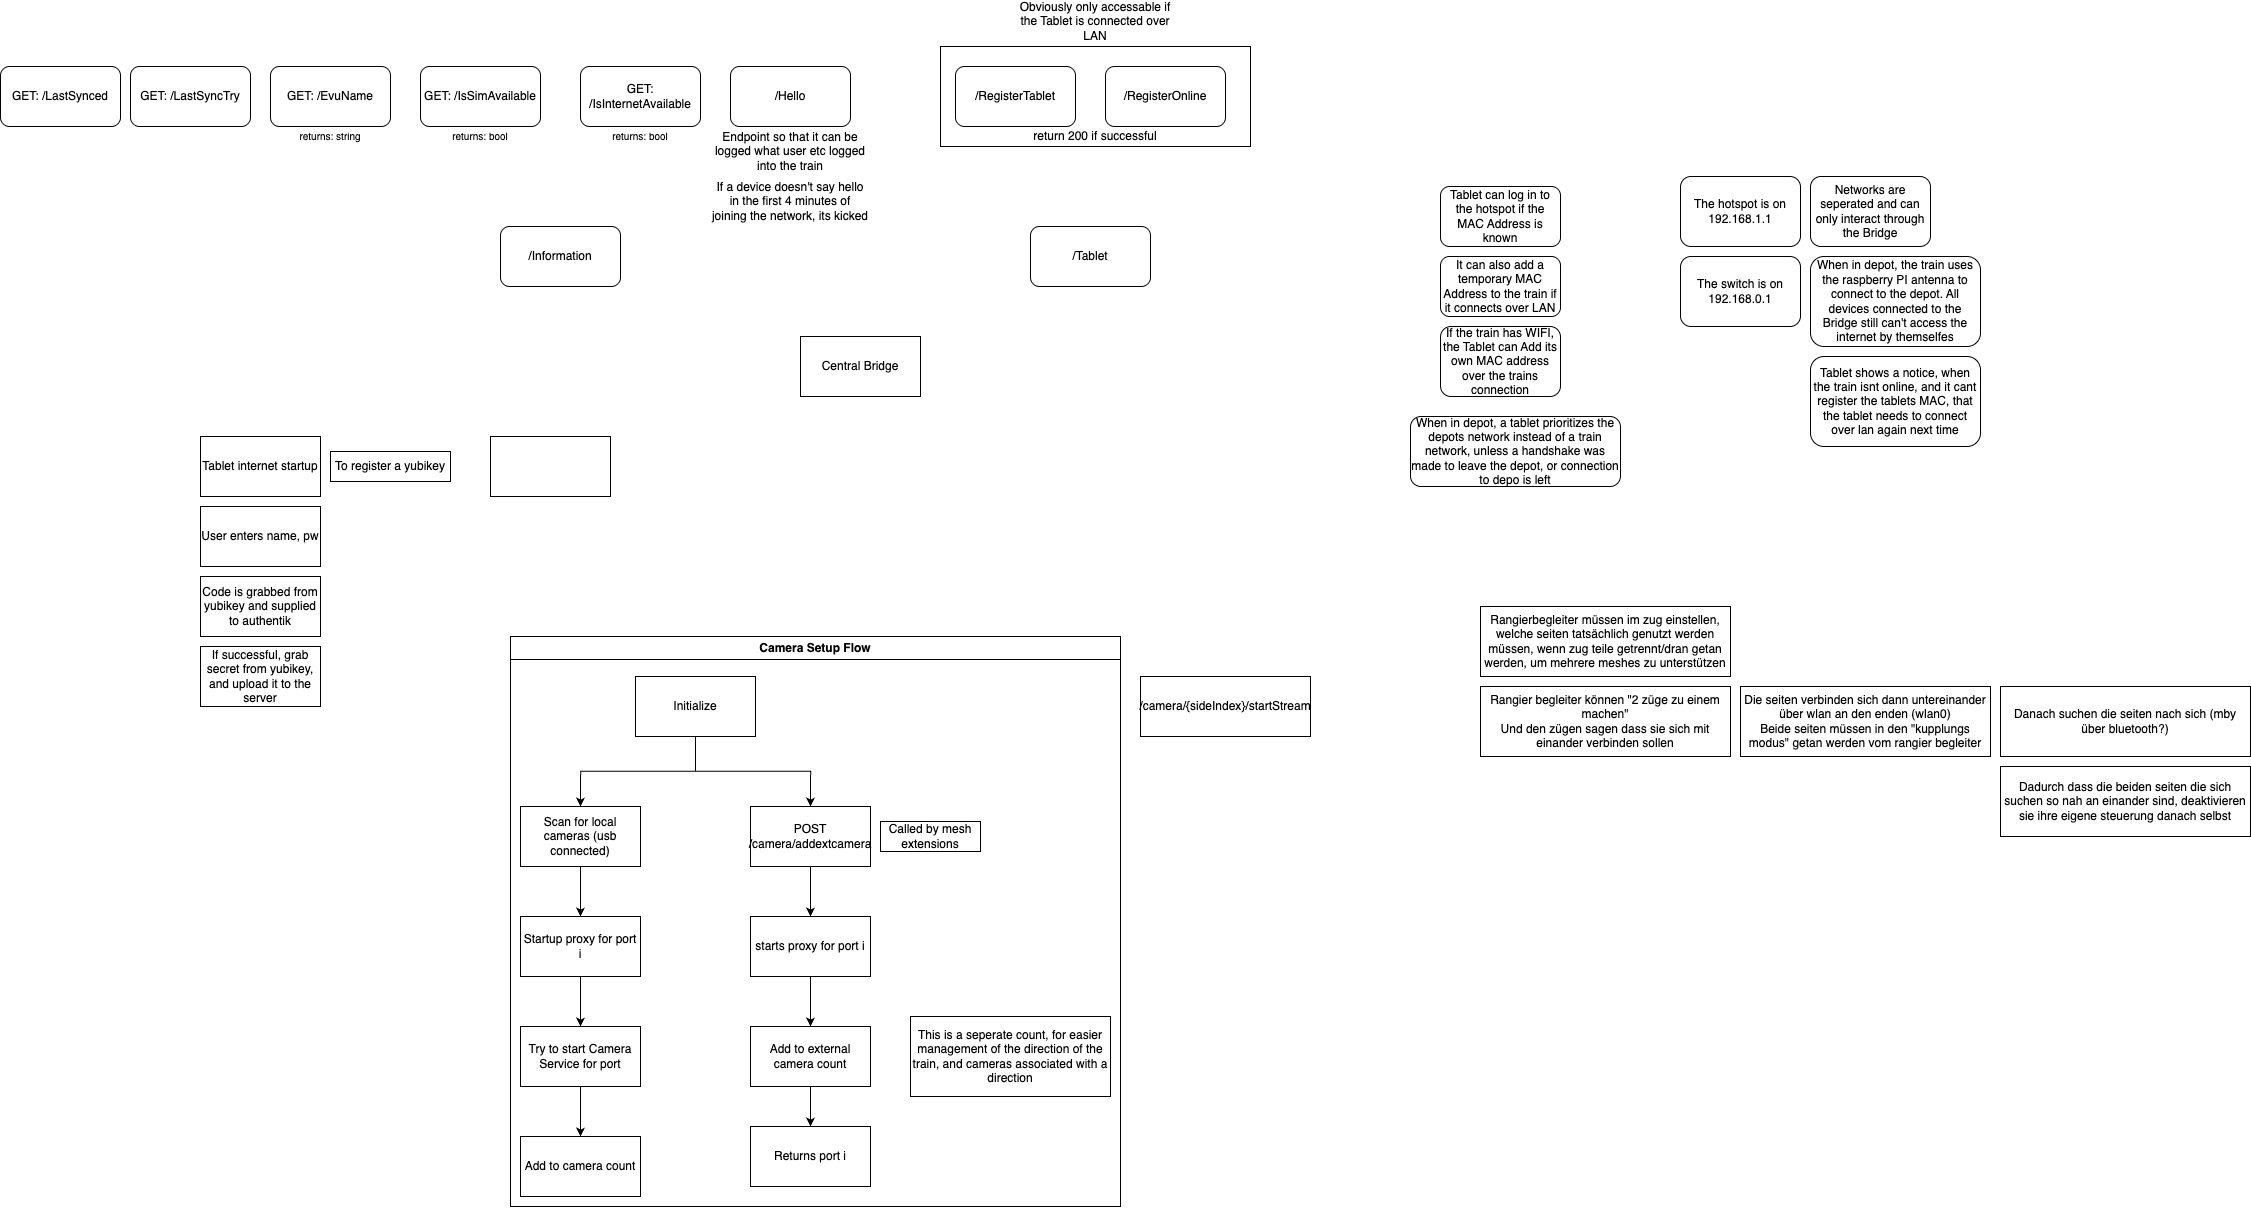
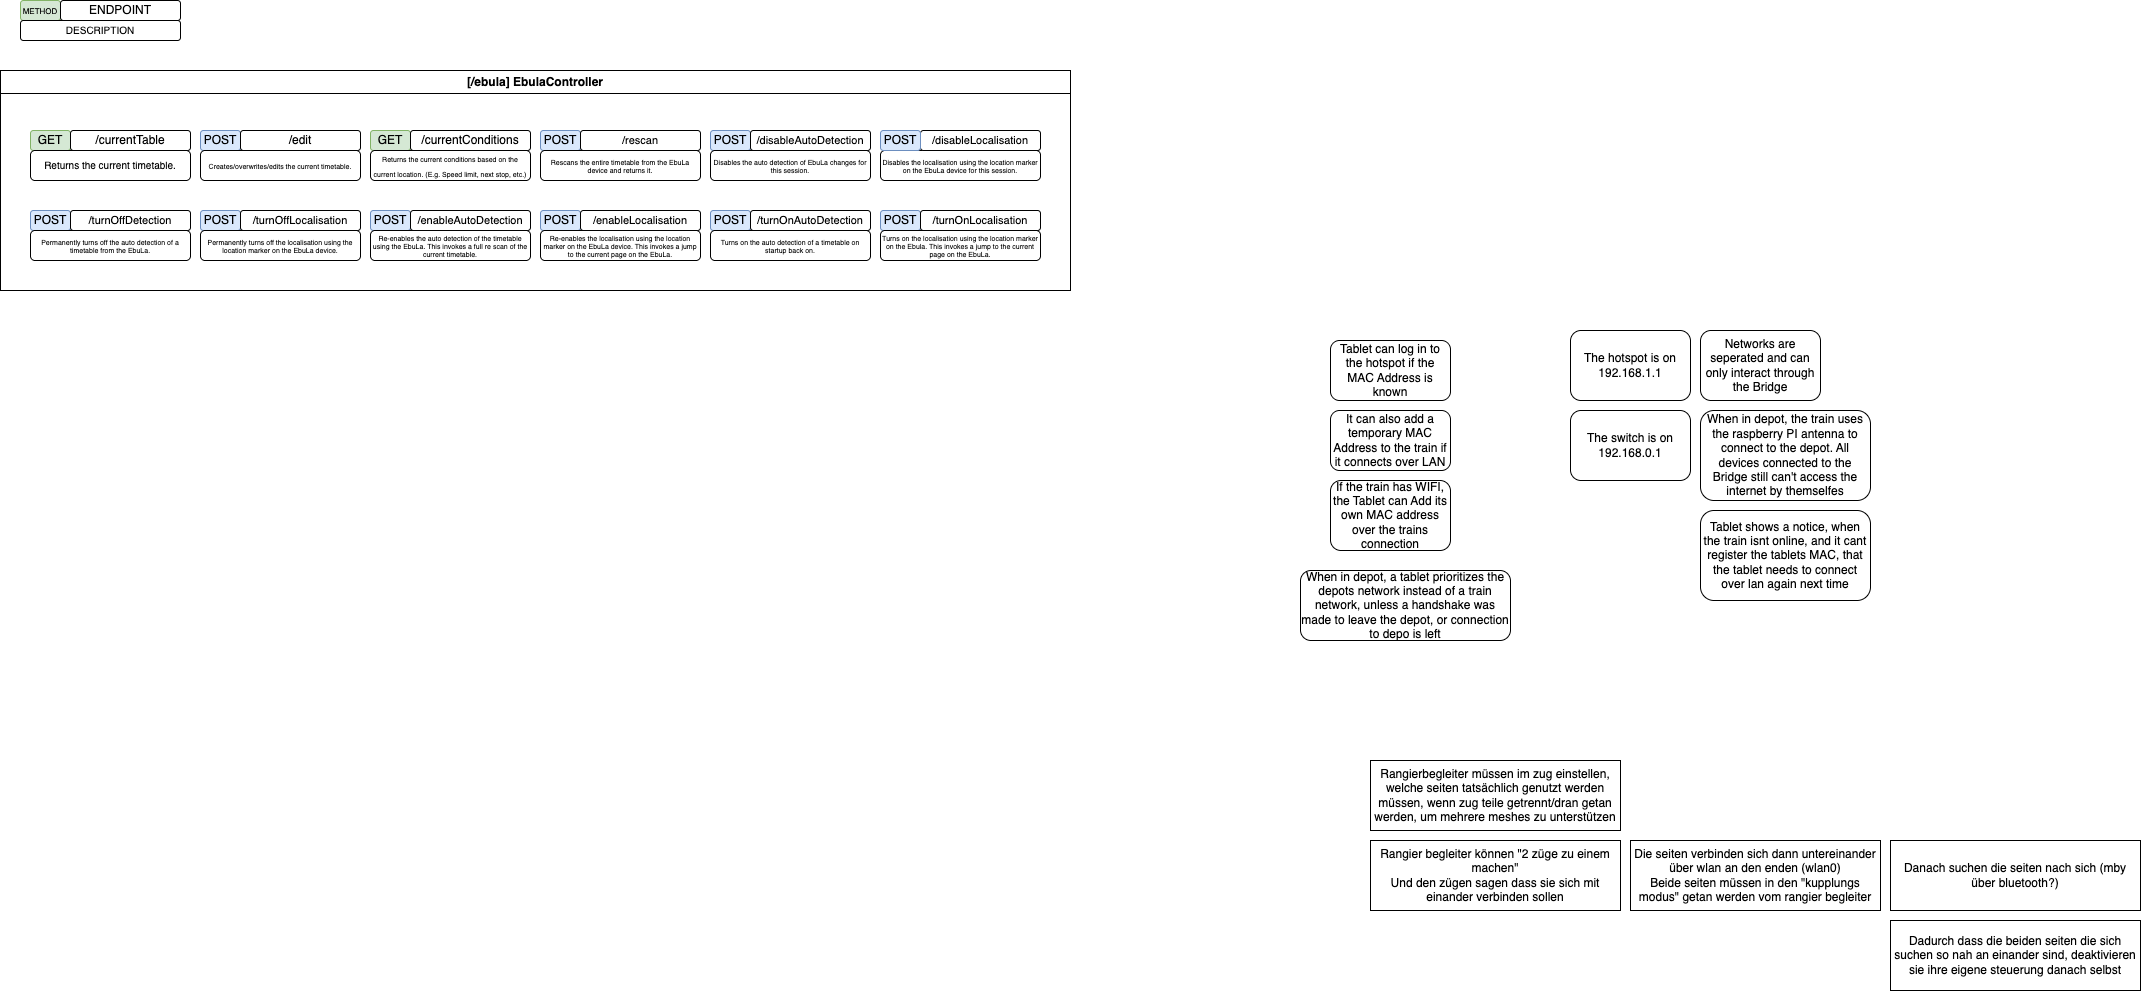
Updated OpenApi to display the ebula endpoints, and removed some outdated docs

diff --git a/README.md b/README.md
@@ -50,6 +50,10 @@ Exports can be found in
 
 ![Train Setup](https://raw.githubusercontent.com/AutoTF-Rail/AutoTf-Documentation/main/DrawIODOC/Export/AI_Control.png)
 
+### Open API diagram:
+
+![OpenApi](https://raw.githubusercontent.com/AutoTF-Rail/AutoTf-Documentation/main/DrawIODOC/Export/OpenApi.png)
+
 
 
 ## 3D models
